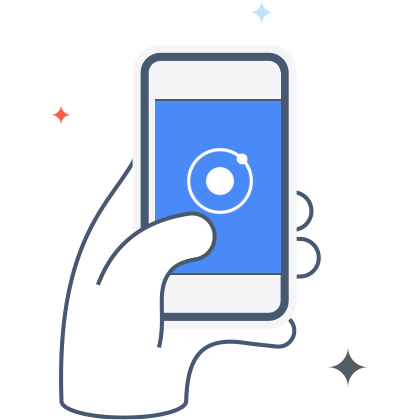
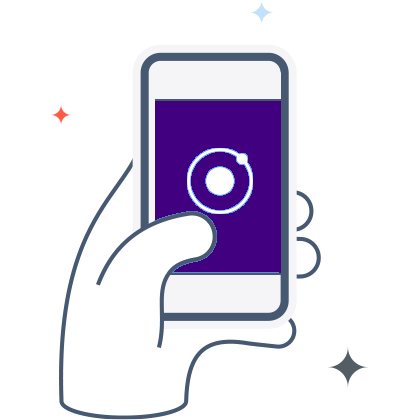
Tratando erro 403

Changed region(s): [[0.3714, 0.2167, 0.681, 0.65]]

diff --git a/src/interceptors/error-interceptor.ts b/src/interceptors/error-interceptor.ts
@@ -1,9 +1,12 @@
 import { Injectable } from '@angular/core';
 import { HttpEvent, HttpInterceptor, HttpHandler, HttpRequest, HTTP_INTERCEPTORS } from '@angular/common/http'
 import { Observable } from 'rxjs/Rx';
+import { StorageService } from '../services/storage.service';
 
 @Injectable()
 export class ErrorInterceptor implements HttpInterceptor {
+
+    constructor(public storage: StorageService){}
 
     intercept(req: HttpRequest<any>, next: HttpHandler): Observable<HttpEvent<any>> {
         return next.handle(req)
@@ -19,8 +22,19 @@ export class ErrorInterceptor implements HttpInterceptor {
                 console.log("Erro detectado pelo interceptor");
                 console.log(errorObj);
 
+                switch(errorObj.status){
+                    case 403:
+                        this.handle403();
+                    break;
+
+                };
+
                 return Observable.throw(errorObj);
             }) as any;
+    }
+
+    handle403(){
+        this.storage.setLocalUser(null);
     }
 }
 

diff --git a/src/pages/profile/profile.ts b/src/pages/profile/profile.ts
@@ -36,7 +36,13 @@ export class ProfilePage {
           this.cliente = res;
           this.getImageIfExists();
         },
-        error => {});
+        error => {
+          if(error.status == 403){
+            this.navCtrl.setRoot('HomePage');
+          }
+        });
+    } else {
+      this.navCtrl.setRoot('HomePage');
     }
   }
 

diff --git a/src/pages/categorias/categorias.html b/src/pages/categorias/categorias.html
@@ -19,7 +19,7 @@
       </ion-thumbnail>
       <h2> {{ item.nome }} </h2>
       <p>2019</p>
-      <button ion-button clear item-end>View</button>
+      <button ion-button solid item-end>View</button>
     </button>
   </ion-list>
 </ion-content>

diff --git a/src/theme/variables.scss b/src/theme/variables.scss
@@ -34,7 +34,7 @@ $app-direction: ltr;
 // The "primary" color is the only required color in the map.
 
 $colors: (
-  primary:    #488aff,
+  primary:    #530082,
   secondary:  #32db64,
   danger:     #f53d3d,
   light:      #f4f4f4,
